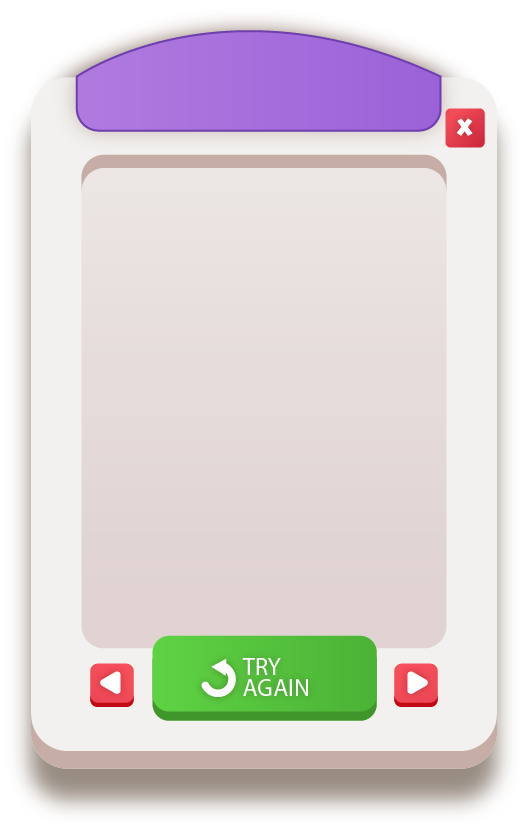
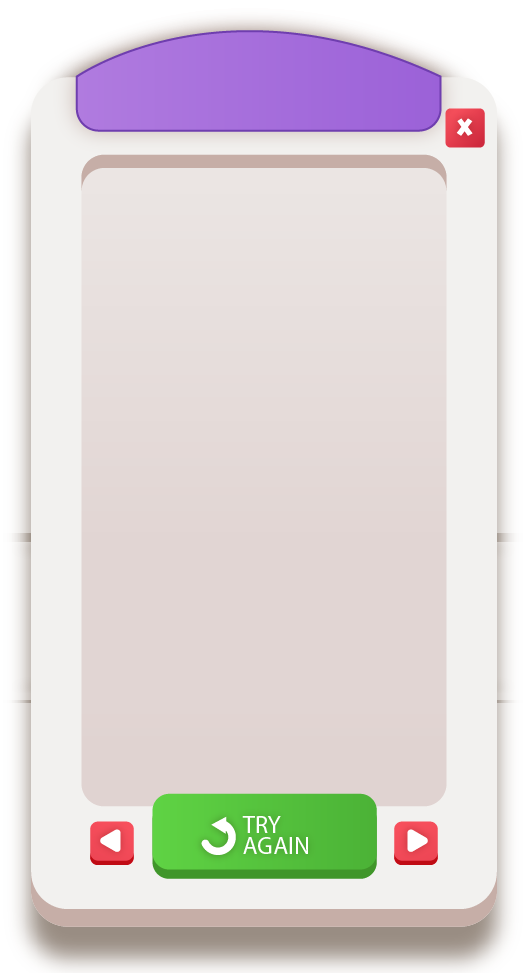
edit

diff --git a/src/app/globals.css b/src/app/globals.css
@@ -17,37 +17,54 @@
   background-repeat: no-repeat;
   background-size: cover;
   background-position: center;
-  aspect-ratio: 527/831;
+  aspect-ratio: 527/973;
   max-width: 527px;
   height: auto;
   position: relative;
 }
 .scoreboard-title {
-  @apply absolute -translate-x-1/2 -translate-y-1/2 left-[49.5%] top-[12%] w-[60%] font-bold text-white text-center text-[22px];
+  @apply absolute -translate-x-1/2 -translate-y-1/2 left-[49.5%] top-[10%] w-[60%] font-bold text-white text-center text-[22px];
 }
 
 .scoreboard-body {
-  @apply absolute -translate-x-1/2 -translate-y-1/2 left-[50%] top-[48%] w-[63%] h-auto font-bold aspect-[42/56] py-5 px-2;
+  @apply absolute -translate-x-1/2 -translate-y-1/2 left-[50%] top-[50%] w-[63%] h-auto font-bold aspect-[42/80] py-5 px-2;
 }
 
 .lists-score {
 }
 
 .item-score {
-  @apply text-[#562234] mb-3;
+  @apply text-[#562234] mb-3 pt-2 pb-5 border-b-2 border-[#562234]/30 last:border-b-0;
 }
+
+.th-score-number {
+  @apply basis-1/4 w-1/4;
+  @apply text-sm min-w-12 md:text-xl md:min-w-10 text-left font-bold uppercase text-center;
+}
+.th-score-name {
+  @apply basis-1/2 w-1/2;
+  @apply text-sm block md:text-xl truncate text-left font-bold uppercase;
+}
+.th-score-point {
+  @apply basis-1/4 w-1/4;
+  @apply text-sm md:text-xl text-left font-bold uppercase text-center;
+}
+
 .score-number {
-  @apply text-2xl min-w-12 md:text-4xl md:min-w-16;
+  @apply basis-1/4 w-1/4;
+  @apply text-base md:text-2xl md:min-w-10 text-center;
 }
 .score-name {
-  @apply text-base block md:text-2xl;
+  @apply basis-1/2 w-1/2;
+  @apply text-base block md:text-2xl truncate;
 }
 .score-point {
-  @apply text-sm md:text-xl;
+  @apply basis-1/4 w-1/4;
+  @apply text-base md:text-2xl;
 }
 
 .scoreboard-next {
-  @apply absolute -translate-x-1/2 -translate-y-1/2 left-[79%] top-[82%] w-[10%] h-auto font-bold aspect-[1/1];
+  @apply absolute -translate-x-1/2 -translate-y-1/2 left-[79%] top-[85.5%] w-[10%] h-auto font-bold aspect-[1/1];
 }
 .scoreboard-next button {
   @apply w-full h-full block;
@@ -55,7 +72,7 @@
 }
 
 .scoreboard-prev {
-  @apply absolute -translate-x-1/2 -translate-y-1/2 left-[22%] top-[82%] w-[10%] h-auto font-bold aspect-[1/1];
+  @apply absolute -translate-x-1/2 -translate-y-1/2 left-[22%] top-[85.5%] w-[10%] h-auto font-bold aspect-[1/1];
 }
 
 .scoreboard-prev button {
@@ -64,7 +81,7 @@
 }
 
 .scoreboard-tryAgain {
-  @apply absolute -translate-x-1/2 -translate-y-1/2 left-[50%] top-[82%] w-[40%] h-auto font-bold aspect-[3/1];
+  @apply absolute -translate-x-1/2 -translate-y-1/2 left-[50%] top-[85.5%] w-[40%] h-auto font-bold aspect-[3/1];
 }
 
 .scoreboard-tryAgain a {

diff --git a/src/app/game5/page.js b/src/app/game5/page.js
@@ -75,6 +75,20 @@ export default function Game1() {
                         </div>
                         <div className="scoreboard-body">
                             <div className="lists-score">
+                                <div className="item-score">
+                                    <div className="flex items-center justify-between">
+                                        <div className="th-score-number">
+                                            Rank
+                                        </div>
+                                        <div className="th-score-name">
+                                            Name
+                                        </div>
+                                        <div className="th-score-point">
+                                            Point
+                                        </div>
+                                    </div>
+                                </div>
+
                                 {showData.map((item) => (
                                     <ItemScore key={item.id} number={item.id} name={item.name} point={item.score} />
                                 ))}

diff --git a/components/itemScore.js b/components/itemScore.js
@@ -4,16 +4,14 @@ export default function ItemScore( { number , name , point } ) {
     <>
     <div className="item-score">
         <div className="flex items-center justify-between">
-            <div className="flex-initial score-number pr-5">
+            <div className="score-number">
                 {number}
             </div>
-            <div className="flex-auto">
-                <p className="score-name">
-                    {name}
-                </p>
-                <p className="score-point">
-                    {point}
-                </p>
+            <div className="score-name">
+                {name}
+            </div>
+            <div className="score-point">
+                {point}
             </div>
         </div>
     </div>

diff --git a/src/app/game4/page.js b/src/app/game4/page.js
@@ -68,9 +68,9 @@ export default function Game1() {
             <div className="flex justify-center items-center min-h-screen">
                 <div className="flex-1 max-w-[500px]">
                     <div className="boxScoreBoard">
-                        <div className="scoreboard-title">
+                        <div className="scoreboard-title uppercase">
                             <AutoTextSize>
-                            Highly Specific H1R & Non Brain Penetrating
+                            Beat Allergy
                             </AutoTextSize>
                         </div>
                         <div className="scoreboard-body">
